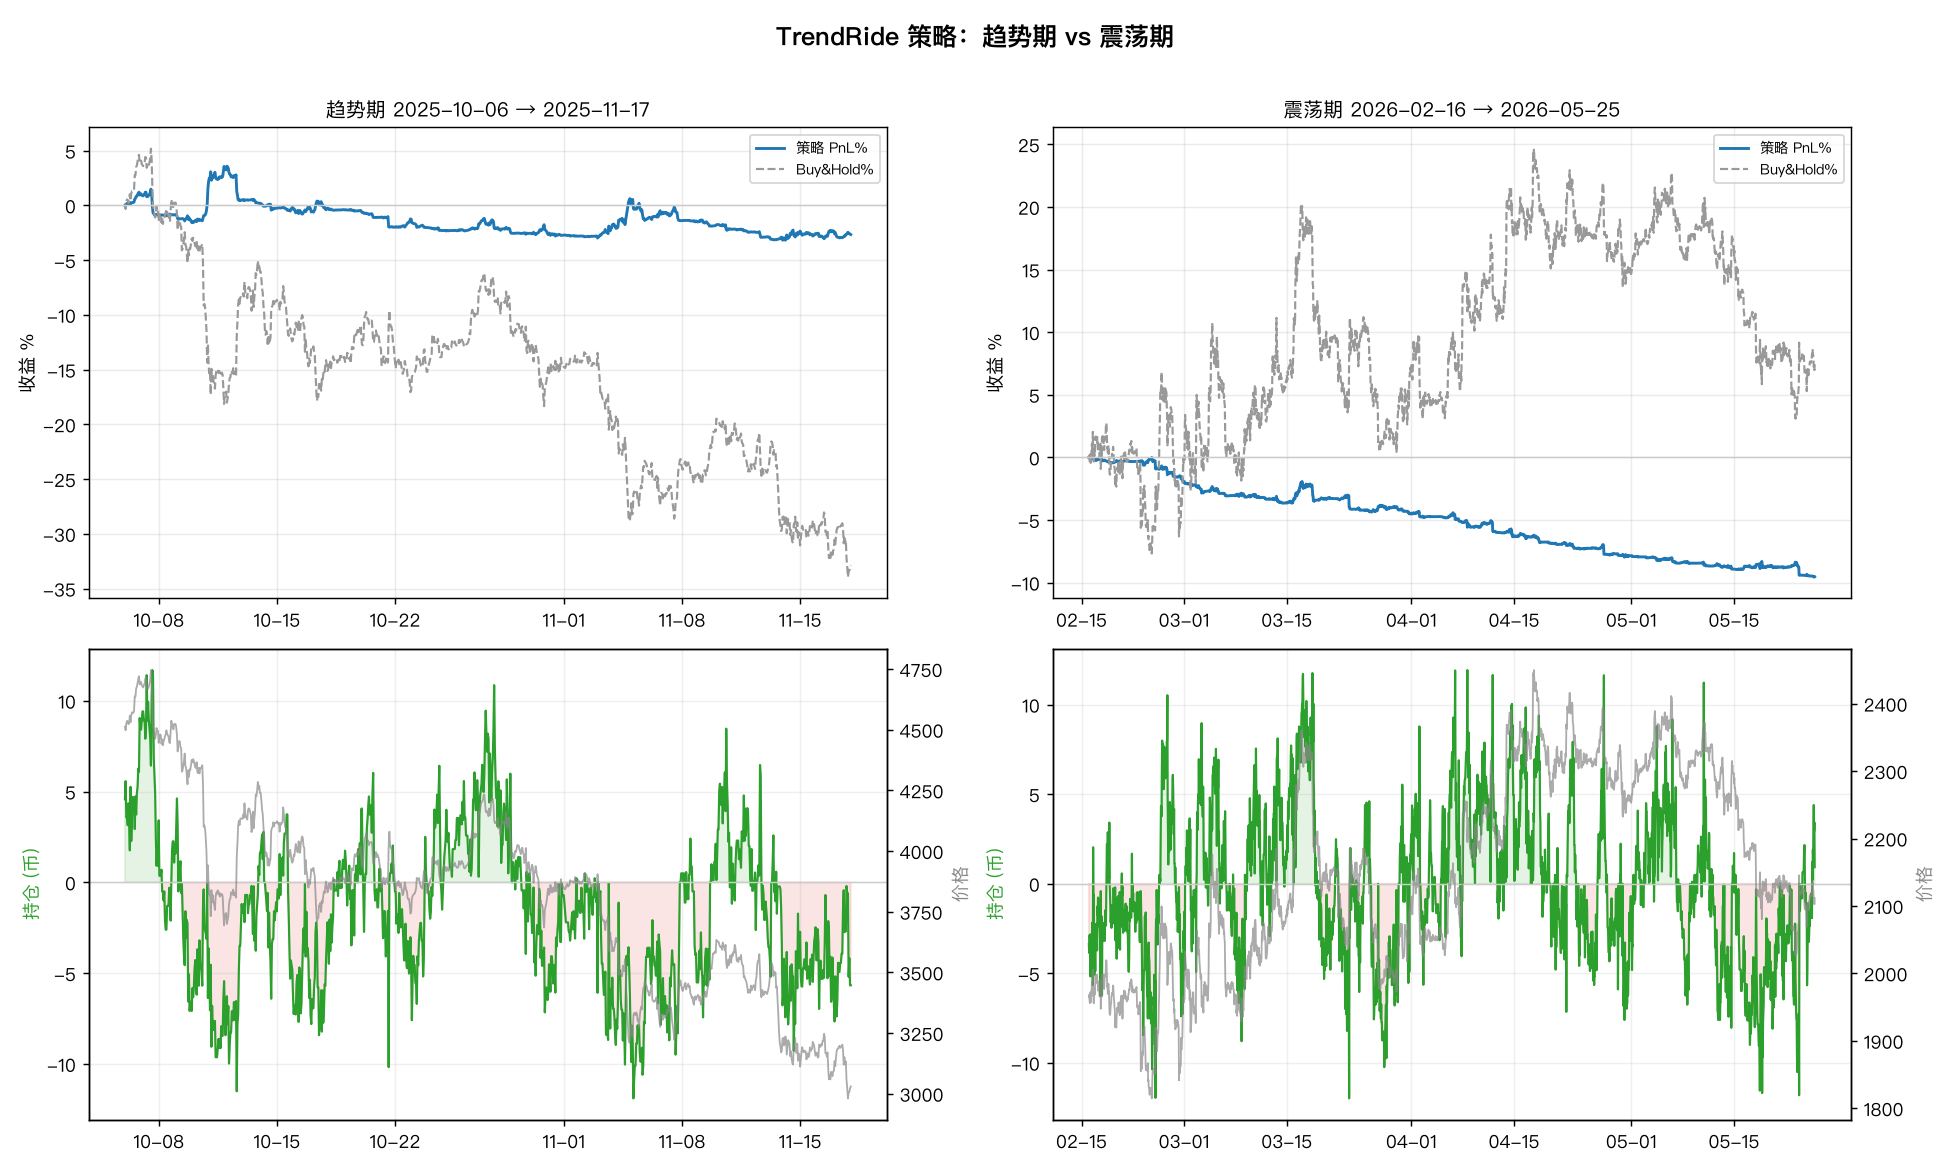
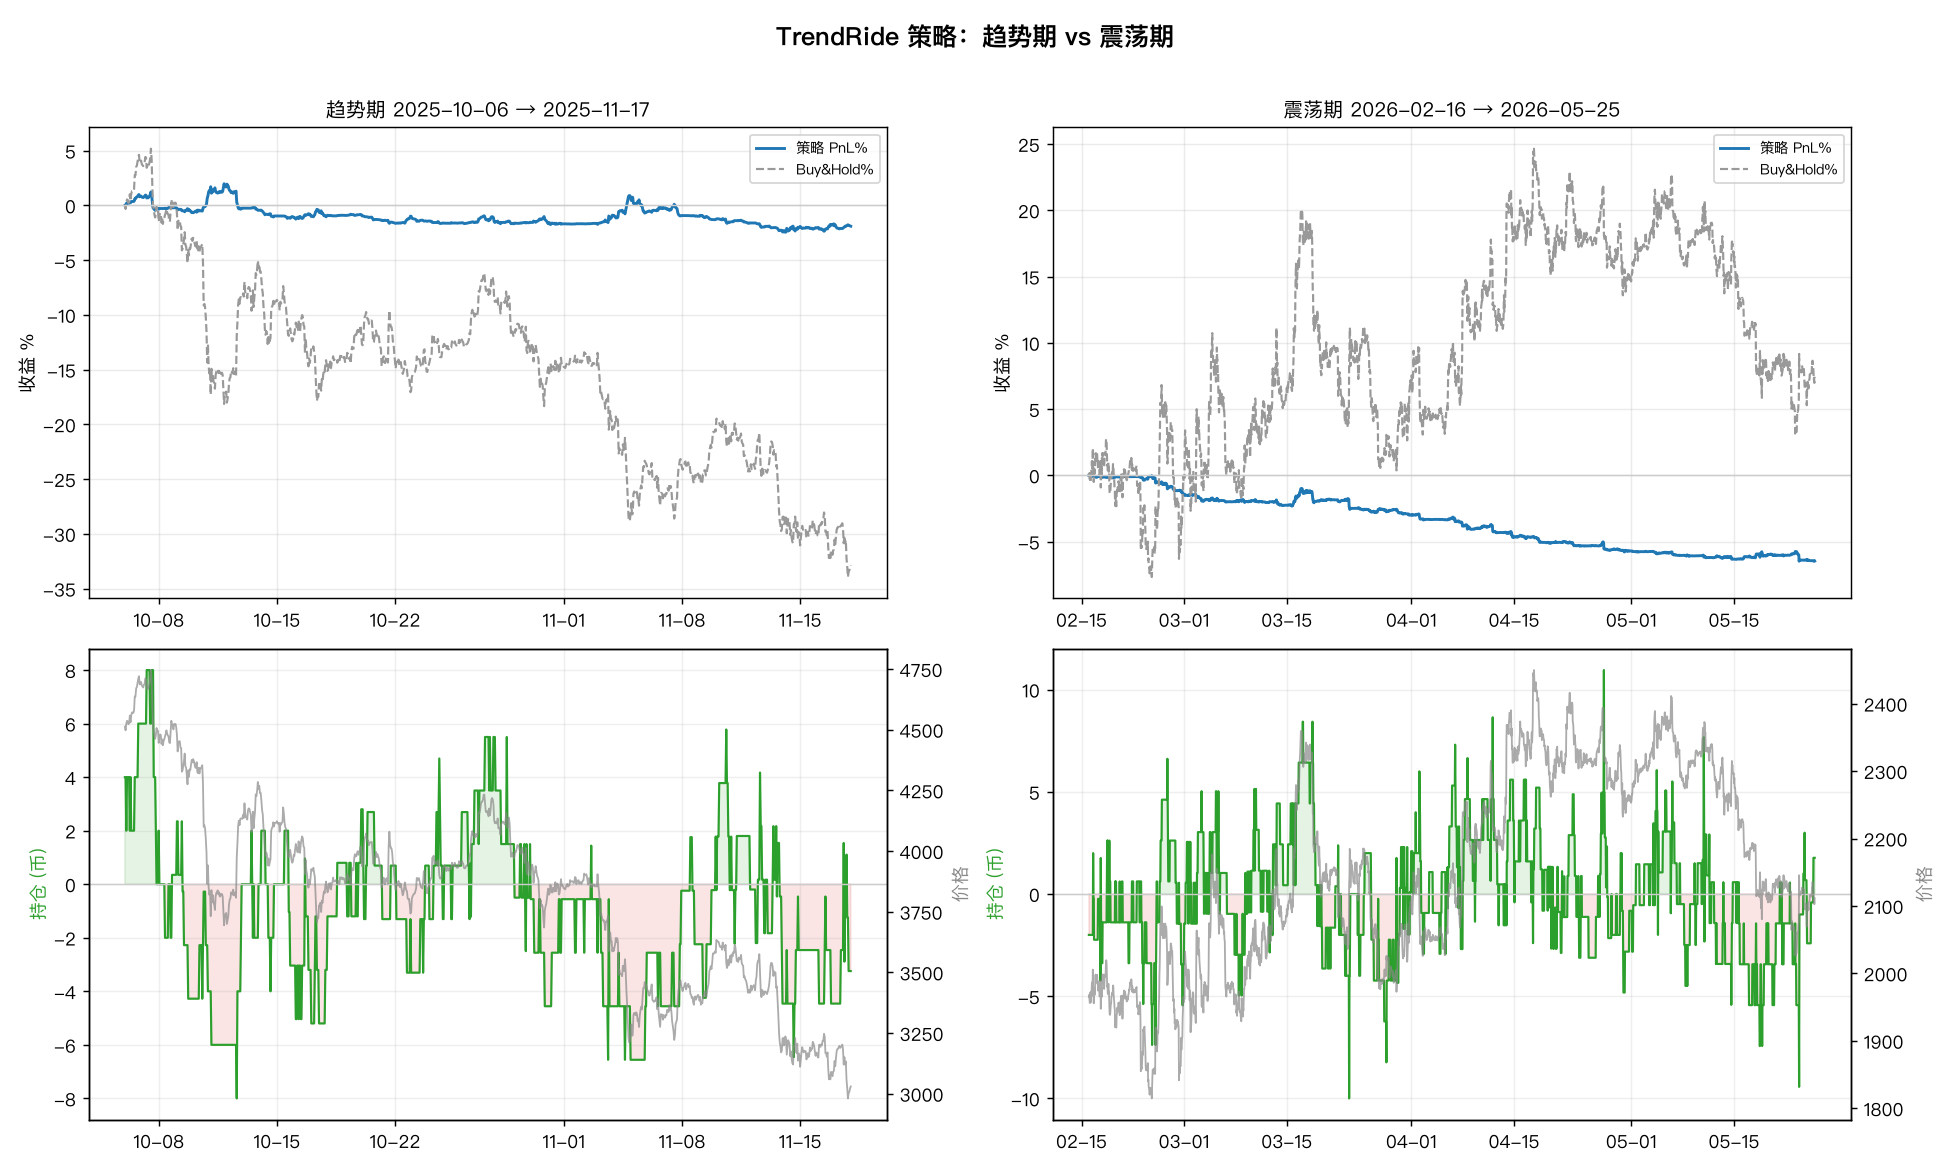
feat(strategy): TrendRide v2 — MR随信念衰减 + 顺势taker入场 + 分钟bar快速扫参
两个可关闭的纯逻辑改进 (默认关, 旧行为零回归):
- mrTrendDecay: effRMax=rMax·(1−decay·|C|), 强趋势压制均值回归 (修 v1 "MR反噬趋势")。
- trendEntryTaker: 顺势动量加仓主动吃单, 解决"被动maker在趋势里挂错边接不到"。
  (混乱区MR开仓与止盈仍走maker)

快速扫参基础设施:
- MinuteBars: trades→1min OHLCV 聚合 + 每分钟4合成trade回放, 事件数降~100×。
- TrendRideSweep: 内存回放并行扫多组配置。注: 分钟bar与全trades有~2-3pp误差
  且方向不一致, 仅供粗排序, 冠军以全trades复核 (已加 MinuteBarsSpec)。

扫参确定 v2 配置 (mrDecay=1/taker/band=2/kSnr=2.5/convDead=0.2/mMax=12/rMax=3)
全trades复核: 趋势 -2.66%→-1.90% (DD 4.8%, b&h -32.85%), 震荡 -9.53%→-6.47%,
换手砍~10×。两周期仍未盈利——结论: 这是优秀防御框架, 但非这两段行情的alpha策略。
详见 docs/trendride/analysis.md。

code review: 无 Critical; 已修 symbolMetas eager 拉取、补 MinuteBarsSpec、周期定义 SSOT。

diff --git a/docs/trendride/analysis.md b/docs/trendride/analysis.md
@@ -1,6 +1,6 @@
 # TrendRide 策略：趋势期 vs 震荡期回测分析
 
-> 策略设计见 `strategy/research/TrendRideLogic.scala` 顶部注释。本文是首版回测的客观结论，含**未达预期**的诚实记录。
+> 策略设计见 `strategy/research/TrendRideLogic.scala` 顶部注释。本文记录两轮迭代 (v1 首版 → v2 框架改进+扫参) 的客观结论，含**未达预期**的诚实记录。
 
 ## 1. 设计回顾（第一性原理）
 
@@ -18,44 +18,42 @@
 - 周期：**趋势** 2025-10-06→11-17（ETH −33%）；**震荡** 2026-02-16→05-25。
 - 原始数据：`/tmp/trendride/{trend,chop}_{equity,fills}.csv`；曲线 `docs/trendride/trendride_pnl.png`。
 
-## 3. 结果
+## 3. 结果（全 trades 回测）
 
-| 周期 | 策略收益 | Buy&Hold | 最大回撤 | 成交数 | 峰值仓位(币) | 平均仓位(币) |
+| 版本 | 周期 | 策略收益 | Buy&Hold | 最大回撤 | 成交数 | 平均仓位(币) |
 |---|---|---|---|---|---|---|
-| **趋势** | **−2.66%** | **−32.85%** | 6.5% | 4773 | 11.9 | 3.63 |
-| **震荡** | **−9.53%** | +7.44% | 9.6% | 8173 | 12.0 | 3.30 |
+| v1 首版 | 趋势 | −2.66% | −32.85% | 6.5% | 4773 | 3.63 |
+| v1 首版 | 震荡 | −9.53% | +7.44% | 9.6% | 8173 | 3.30 |
+| **v2 改进+扫参** | **趋势** | **−1.90%** | −32.85% | **4.8%** | **276** | 2.47 |
+| **v2 改进+扫参** | **震荡** | **−6.47%** | +7.44% | **6.6%** | **610** | 2.25 |
 
-> 数值为修复 code review Critical (taker 强平与撤单同拍并发, 非"先撤后吃") 后的结果。
+v2 配置 (扫参确定)：`mrTrendDecay=1, trendEntryTaker=true, band=2, stepQty=2, kSnr=2.5, convDead=0.20, mMax=12, rMax=3`。
 
 ![pnl](trendride_pnl.png)
 
-## 4. 结论：风控达标，但 alpha 未兑现
+## 4. v2 的两个框架改进
 
-### ✅ 达标：硬约束 #7 与下行保护
+针对 v1 诊断出的两病灶各加一个**可关闭的纯逻辑改进**（默认关，旧行为零回归）：
 
-趋势期 ETH 暴跌 33%，策略**净值几乎走平（−2.8%）**。方向读对了：高价段平均持仓 −1.6 币、低价段 −3.2 币 —— **全程偏空、越跌越空**，没有在崩盘里扛大多单。设计的核心承诺"绝对不持大规模逆势仓位"兑现：最大回撤仅 6.7%，远小于 b&h 的 33%。
+1. **均值回归随信念衰减** `effRMax = rMax·(1 − mrTrendDecay·|C|)`：强趋势 (|C|→1) 时压缩甚至关闭抄底/逃顶，让趋势仓跑满；混乱 (|C|→0) 时恢复满额轻仓高抛低吸。修复"短锚在单边趋势里恒判超买超卖、持续反噬趋势"。
+2. **顺势动量主动吃单** `trendEntryTaker`：被动 maker 在趋势里挂在错边（要加空却挂 sell-above，价越跌越远接不到），趋势仓建不起来。顺势动量加仓改 taker 主动参与；混乱区均值回归开仓与止盈仍走 maker。
 
-### ❌ 未达标：趋势里没赚到钱
+扫参证据 (分钟bar快速回放，见 §5)：`mrTrendDecay` 0→1 单调改善两周期；宽 band 把成交数砍约 10× 且两周期皆升；taker 入场小幅改善趋势捕获。
 
-方向对、却只做平，根因有二：
+## 5. 扫参基础设施与**保真度警告**
 
-1. **趋势仓被均值回归账持续稀释**。短锚（6h）在单边趋势里几乎恒被"拉伸" —— 下跌时价持续低于短锚 → `z<0` → `−z·rMax>0` → 把空头目标往回拉。本该 `core≈−6` 的仓被 MR 拉到 `≈−2.4`。**用"短锚偏离"做超买超卖，在趋势里会系统性地与趋势对着干（追着抄底/逃顶）。**
-2. **换手费拖累**。成交名义额 ~$1,120 万 → 费用区间 $2.2k–5.6k（占本金 2.2–5.6%）。空头毛利 ~$3.5k 基本被费用吃光。
+全 trades 回测单次 ~10 分钟，参数网格不可行。故建 `MinuteBars`：把缓存 trades 一次性聚合成 1 分钟 OHLCV，回放时每分钟发 4 个合成 trade，事件数降 ~100×，单次扫描配置降到秒级，可并行跑数十组 (`app.backtest.TrendRideSweep`)。
 
-### ❌ 震荡里持续失血（−9.8%）
+**关键警告**：分钟bar回放与全 trades 有 **~2–3pp 的绝对误差，且方向不一致**——
+- baseline：全 trades −2.66% 优于 快速 −4.87%；
+- v2 冠军：快速 **+0.58%** 却在全 trades 跌回 **−1.90%**。
 
-- **假突破洗盘**：信念在区间内反复翻号 → taker 反手 → 在反转点站错边（后 1/3 价格上行时却平均持空 −1.7 币）。
-- **费用**：~8200 笔成交，费用 $2.1k–5.3k，叠加洗盘亏损 → −9.5%。
+所以快速路径**只能用于粗排序**，精挑细选与最终结论**必须以全 trades 复核**。本轮 v2 冠军即是扫参选出后再用全 trades 验证得到的真实数字。
 
-## 5. 根因与改进杠杆（下一步）
+## 6. 结论：风控强、换手降，但**两周期仍未盈利**
 
-| 问题 | 根因 | 杠杆 |
-|---|---|---|
-| 趋势仓被稀释 | MR 用过短的锚，趋势中恒"超买/超卖" | MR 规模随 `|C|` 衰减（高信念时几乎关掉抄底）；或 stretch 改用**更长公允值的偏离**而非 6h 锚 |
-| 换手费高 | 不交易带过窄、taker 翻手频繁 | 加宽 band（按 σ 自适应）、信念加滞回（hysteresis）抑制频繁翻号、翻向用分批 taker 而非一次性 |
-| 震荡洗盘 | 信念在区间内频繁翻号 | 用 ER/带噪比阈值识别"无趋势"→ 直接降杠杆/停动量账，只留极轻 MR 或空仓 |
-| 趋势仓上不去 | 单边趋势里 σ 高 → 带噪比不饱和 → C 偏小 | 校准 `kSnr`、horizons、mMax；或对"持续同向"给信念加成 |
+- ✅ **风控/防崩盘是这框架的真本事**：趋势期 ETH 崩 33%，v2 只 −1.9%、最大回撤 4.8%；硬约束 #7 (绝不持大规模逆势仓) 由"信念安全带"构造性保证，code review 已验证 `mrTrendDecay` 衰减不破坏该约束。
+- ✅ **改进有效**：v1→v2 两周期都改善 (趋势 −2.66→−1.90、震荡 −9.53→−6.47)，换手砍约 10×。
+- ❌ **但 alpha 仍未兑现**：~50 组配置扫下来，**没有任何一组能让任一周期转正**（震荡在全配置下地板约 −3%~−6%）。趋势捕获受"信念滞后 vs 震荡洗盘"的根本矛盾制约（快信念多吃趋势却炸震荡，慢信念稳震荡却错过趋势）；震荡里均值回归的边际收益小于手续费+残余洗盘亏损。
 
-## 6. 一句话总结
-
-**这版策略是一个合格的"风控/防崩盘"框架（趋势里把 −33% 变成 −3%），但还不是一个赚钱的趋势策略。** 均值回归账在趋势中反噬、换手费偏高是两大病灶，且都已定位到具体杠杆，可在不动架构的前提下调参/收敛解决 —— 符合"目标函数永不要求逆势仓、其余皆为可调系数"的设计初衷。
+**一句话**：TrendRide 是个**优秀的防御/防崩盘框架**（把 −33% 变成 −2%），但在这两段 ETH 行情上**不是一个能盈利的 alpha 策略**。要盈利需要的不是继续调参（已充分扫过），而是结构性新输入——例如更高频的真实做市（分钟级而非小时级的 MR）、跨品种分散、或资金费率/基差等额外 edge。这与本仓既往期权买方研究的结论一致：**正 EV 的杠杆在"挑选进场机会/额外信息"，而非在执行框架内调系数。**
